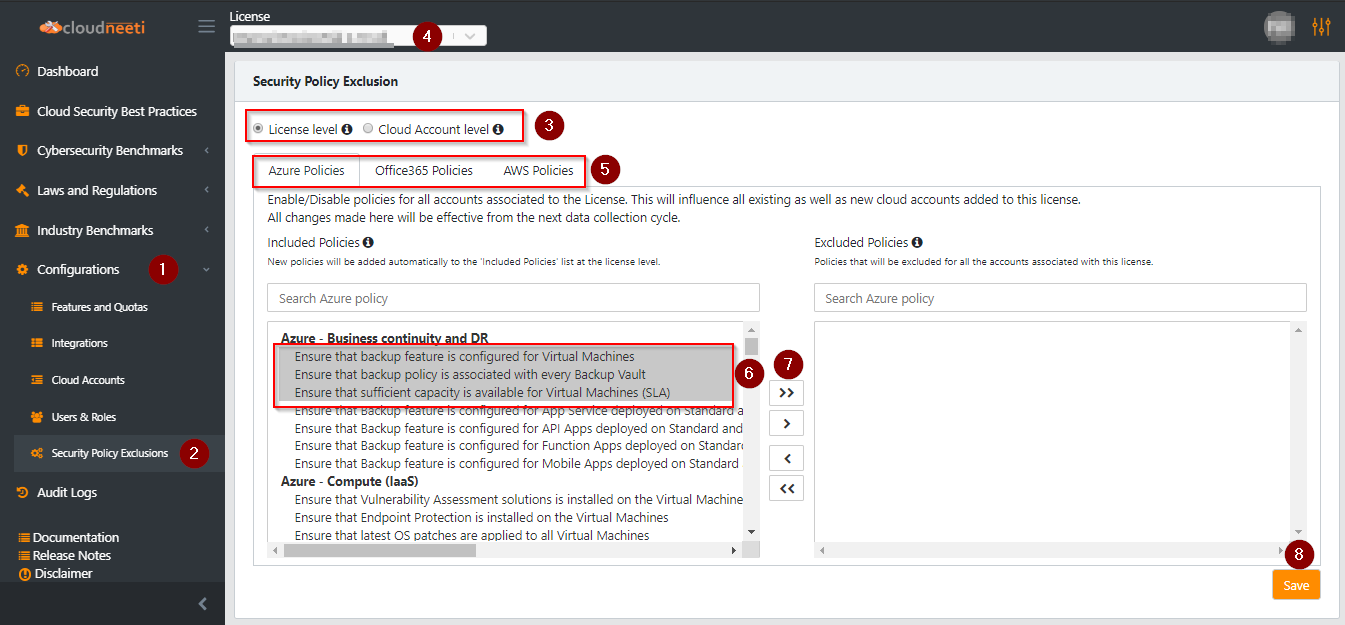
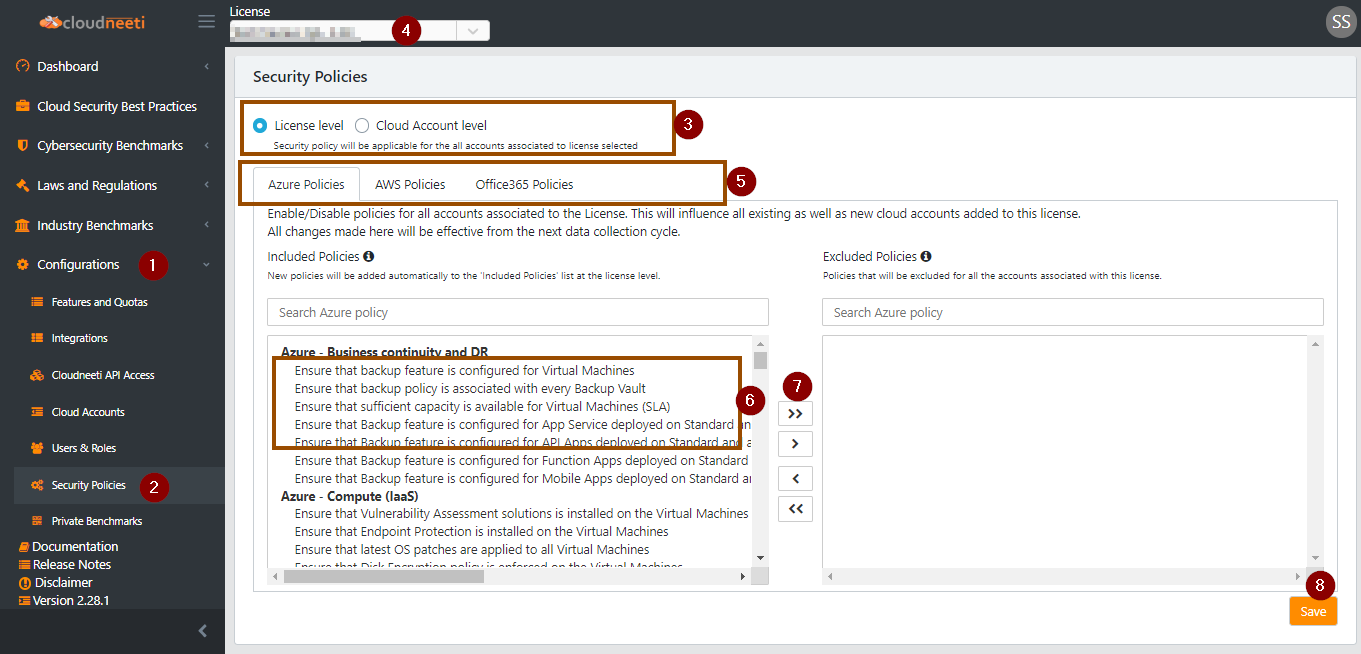
security policy exclusion rename to security policies

diff --git a/docs/userGuide/userInterface.md b/docs/userGuide/userInterface.md
@@ -28,7 +28,7 @@ The left menu provides access to Dashboards (1), Views (2) and Configurations (3
 
 3.  The menu items **Cybersecurity Benchmarks, Laws and Regulations, and Industry Benchmarks** provide access to views of individual compliance frameworks.
 
-4.  The **Configurations** menu item provides access to Features and Quotas, Integrations, Cloud Accounts, Users and Roles, and Security Policy Exclusion.
+4.  The **Configurations** menu item provides access to Features and Quotas, Integrations, Cloud Accounts, Users and Roles, and Security Policies.
 
 5.  The **Audit logs** menu provides an overview of the most recent audit logs. Every user transaction such as adding or removing users, downloading reports, and configurations changes.
 
@@ -73,7 +73,7 @@ information please refer to [Compliance Benchmarks](../complianceBenchmarks/){ta
 Configurations
 --------------
 
-The configurations section (1) on the left menu provides access to access to Features and Quotas, Integrations, Cloud Accounts, Users and Roles, and Security Policy Exclusion. License Admin and Account Admin can review and update License level and Cloud Account level configurations. 
+The configurations section (1) on the left menu provides access to access to Features and Quotas, Integrations, Cloud Accounts, Users and Roles, and Security Policies. License Admin and Account Admin can review and update License level and Cloud Account level configurations. 
 	
 ![UI Navigation](.././images/userGuideUINavigation/Settings_Panel.png#thumbnail)
 

diff --git a/docs/administratorGuide/securityPolicyExclusions.md b/docs/administratorGuide/securityPolicyExclusions.md
@@ -1,4 +1,4 @@
-# Security policy exclusions
+# Security policies
 
 By default, all the security policies are enabled. Update Global Policies allows selection of security policies that should be excluded from data collection. Exclusion can be done at license and cloud account level
 
@@ -14,7 +14,7 @@ License Admins and Account Admins will have the rights to manage License users a
 
 1. Click **Configurations**
 
-2. Navigate to **Security Policy Exclusion** 
+2. Navigate to **Security Policies** 
 
 3. Select **License level**
 
@@ -39,7 +39,7 @@ Configure security policies allows users to enable and disable data collection a
 
 ### Configure Security Policies
 
-1.  Navigate to **Security Policy Exclusion** in **Configurations**
+1.  Navigate to **Security Policies** in **Configurations**
 
 2.  Select **Account Level** (1)
 
@@ -58,7 +58,7 @@ Configure security policies allows users to enable and disable data collection a
 
 ### Configure Security Policies Using CSV File
 
-1.  Navigate to **Security Policy Exclusion** in **Configurations**
+1.  Navigate to **Security Policies** in **Configurations**
 
 2.  Select **Account Level** (1)
 

diff --git a/docs/remediation/azureAutoRemediation.md b/docs/remediation/azureAutoRemediation.md
@@ -91,7 +91,7 @@ Login to [Azure Portal](https://portal.azure.com/){target=_blank}  with Subscri
 ### STEP 3: Configure remediation policies
 Login to Cloudneeti portal with **License Admin** role 
 
-1. Navigate to **Configurations** (1) and **Security Policy Exclusion** (2)
+1. Navigate to **Configurations** (1) and **Security Policies** (2)
 
 2. Select **Account Level** (3)
 

diff --git a/docs/remediation/awsRemediation.md b/docs/remediation/awsRemediation.md
@@ -252,7 +252,7 @@ Login to Cloudneeti portal with **License Admin** role
 
 1. Select desired **License** (1) and **Cloud Account** (2)
 
-2. Navigate to **Configurations** (3) and **Security Policy Exclusion** (4)
+2. Navigate to **Configurations** (3) and **Security Policies** (4)
 
 3.  Select **Account Level** (5)
 
